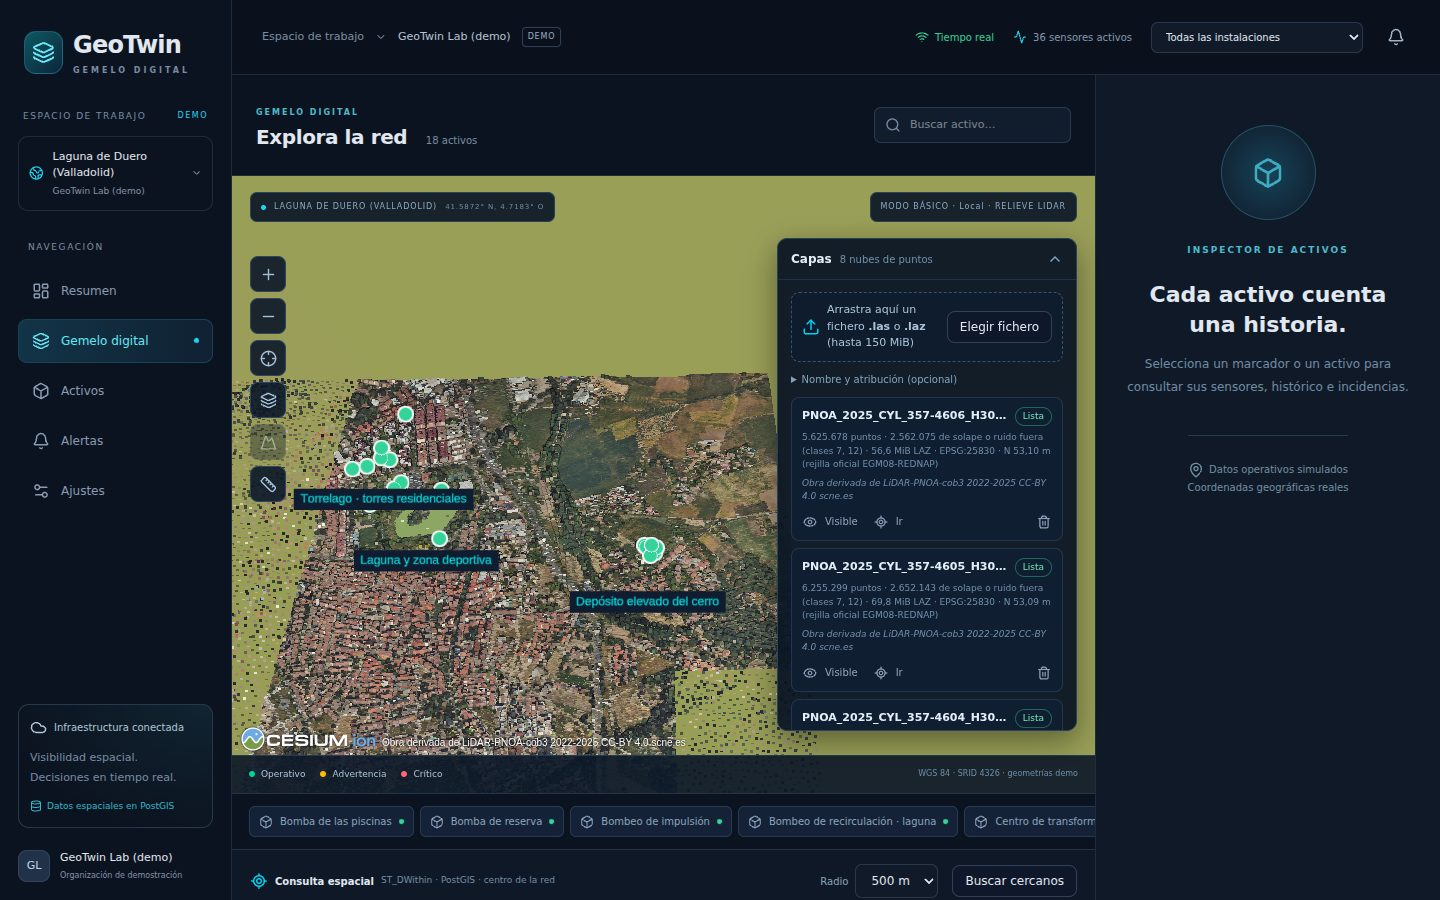
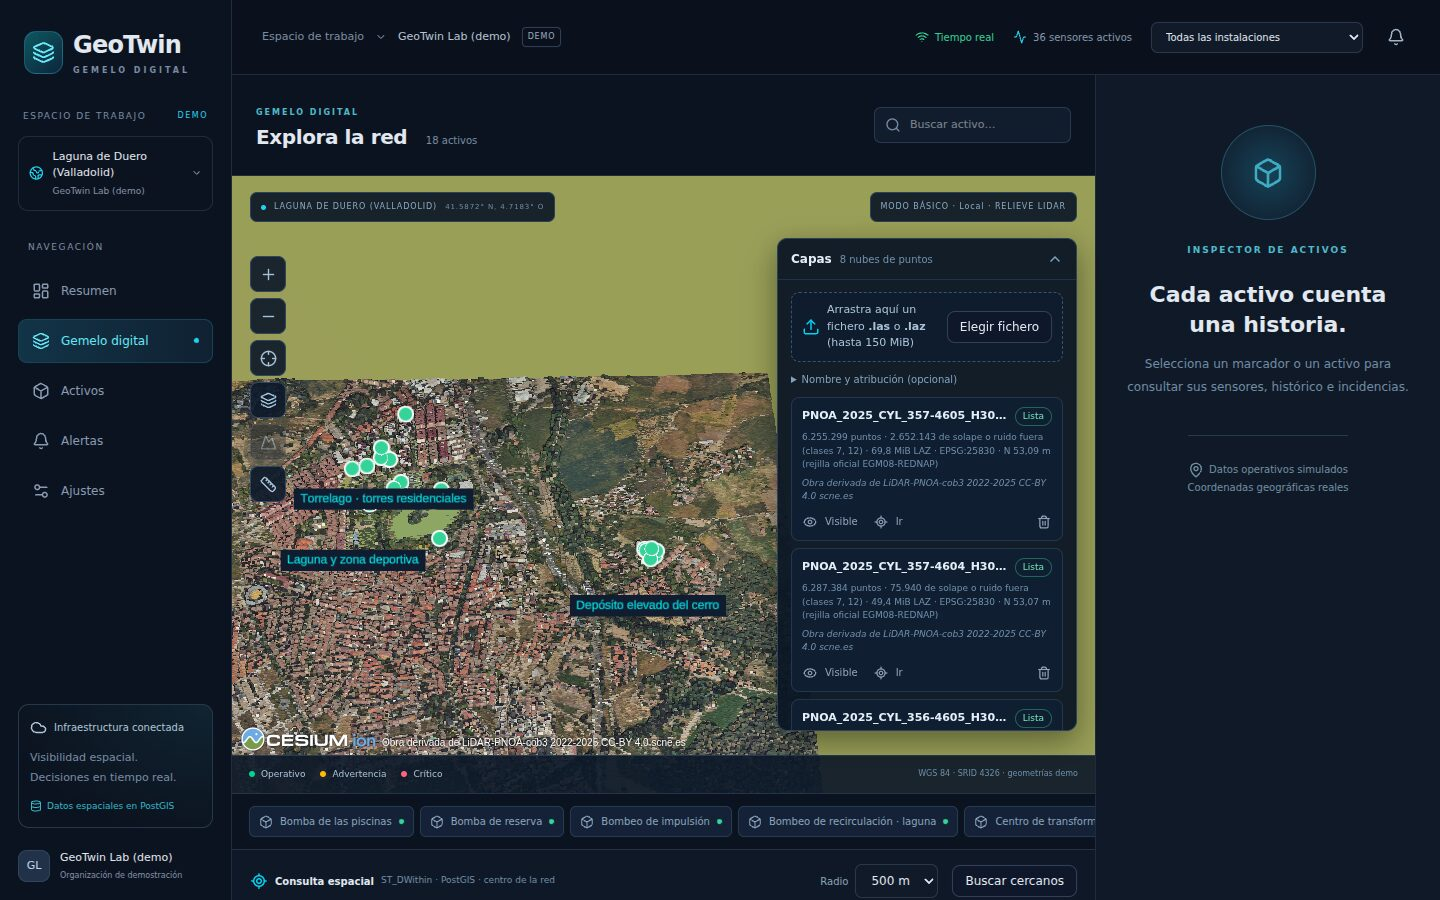
docs: final check findings, the fixes and their before/after numbers
Claude-Session: https://claude.ai/code/session_01BEvotRhPSGFhtZzXa95Uqt

Changed region(s): [[0.375, 0.4044, 0.5938, 0.84], [0.1562, 0.4044, 0.3438, 0.84]]

diff --git a/README.md b/README.md
@@ -74,8 +74,8 @@ npm run format:check
 
 - Dashboard calculado mediante SQL, filtros por instalación y tendencia de sensores.
 - Visor Cesium real: la cámara encuadra los activos (toda la red o la instalación elegida) en escritorio y en móvil, selección mediante clic, fly-to, marcadores y volúmenes de activos con color operativo, búsqueda y controles de navegación. Cambiar de instalación no reconstruye el visor.
-- Inspector de activos con sensores, última lectura, histórico y umbrales. Edición persistente del nombre, que llega a los demás clientes por WebSocket.
-- Enlaces compartibles: la vista, la instalación y el activo seleccionados viven en la URL (por ejemplo `/gemelo?instalacion=…&activo=…`). Abrir el enlace muestra lo mismo y el botón Atrás del navegador vuelve a la vista anterior.
+- Inspector de activos con sensores, última lectura (con coma decimal y la marca «simulado» junto a cada valor), histórico y umbrales. Edición persistente del nombre, que llega a los demás clientes por WebSocket.
+- Enlaces compartibles: la vista, la instalación y el activo seleccionados viven en la URL (por ejemplo `/gemelo?instalacion=…&activo=…`). Abrir el enlace muestra lo mismo y el botón Atrás del navegador vuelve a la vista anterior. Si el relieve del LiDAR llega después del primer vuelo, la cámara vuelve a apuntar al suelo real, salvo que ya la hayas movido.
 - Telemetría cada 5 segundos, persistida antes de publicar eventos; secuencia reproducible y anomalías periódicas. Cada tick usa un número fijo de sentencias SQL, sea cual sea el número de sensores.
 - Fallos controlados desde la UI: una lectura crítica crea una incidencia, actualiza el activo y se propaga a clientes conectados.
 - Registro manual de incidencias y resolución idempotente con histórico de resolución.
@@ -164,6 +164,7 @@ El botón con la regla del mapa abre **Medir** (se descarga aparte, solo al usar
 - **Distancia** (2 o más puntos, polilínea): **3D** (suma de cuerdas entre los puntos), **Horizontal** (geodésicas sobre el elipsoide WGS84 con `EllipsoidGeodesic`, sin contar el desnivel) y **Desnivel** (altura del último menos la del primero; en una hoja de 1 km el geoide varía menos de 2 cm, así que equivale al desnivel ortométrico).
 - **Área** (3 o más puntos): **área horizontal** del polígono (vértices llevados a h = 0, proyectados al plano tangente en su centroide y fórmula del área de Gauss) y **perímetro** geodésico.
 - Precisión mostrada acorde con lo que permite un clic: centímetros por debajo de 10 m, decímetros hasta 1 km y metros por encima; áreas en m² y, desde 1 ha, también en hectáreas.
+- **Al suelo (MDT)**: con el relieve del LiDAR activo, una casilla lleva cada punto a la altura del modelo del terreno en ese sitio. Sirve cuando el clic cae sobre un árbol, un coche o una valla; sin ella, pica en pavimento despejado para medir el suelo.
 - **Teclado**: con el mapa enfocado, las flechas lo desplazan y `+`/`-` acercan; **Centro** añade el punto bajo la cruz central; Retroceso, Supr o Ctrl+Z deshacen el último punto y Esc cierra la herramienta. Los resultados se anuncian a lectores de pantalla.
 - Las fórmulas tienen pruebas unitarias contra valores calculados aparte con GeographicLib (pyproj): distancias geodésicas al milímetro, una hoja UTM de 1 × 1 km de Laguna de Duero (1.000.293 m²) y un polígono de 18.246 m².
 - Las medidas no se guardan: desaparecen al cerrar la herramienta.
@@ -191,7 +192,7 @@ npm run test:e2e               # arranca API, worker LiDAR y Vite: 7 pruebas rea
 
 Las pruebas de integración requieren PostgreSQL activo en 55432. Las del pipeline LiDAR convierten de verdad con py3dtiles: usan el Python de `LIDAR_PYTHON` y se saltan (con aviso) si no tiene las dependencias, salvo con `REQUIRE_LIDAR_TESTS=true`, como en la CI. Con `GEOID_GRID_DIR` apuntando a la rejilla oficial se prueba además la corrección punto a punto, y con `S3_TEST_ENDPOINT` el driver S3 contra un MinIO real (la CI hace ambas cosas). Utilizan **únicamente** la base `geotwin_test` y rechazan otro nombre antes de limpiar fixtures. `TEST_DATABASE_URL` permite ajustar host y credenciales. El usuario local de PostgreSQL debe poder crear esa base; si no existe, se crea desde la base de mantenimiento `postgres` del mismo servidor. No uses una base de negocio para los tests.
 
-El E2E también usa `geotwin_test`, desactiva el simulador periódico y mantiene disponible la inyección controlada; no usa mocks de REST. Arranca además el worker LiDAR (necesita un `LIDAR_PYTHON` con py3dtiles, como las pruebas de integración) con almacenamiento local en `data/e2e-storage`: el segundo flujo sube la nube sintética desde el panel Capas, espera a que esté lista por WebSocket, comprueba que su suelo pasa a ser el relieve del visor y que se puede apagar, la oculta y la muestra, cambia el modo de color, mide una distancia y la borra. Otras pruebas comprueban que el encuadre deja todas las instalaciones fuera del panel Capas a 1280 y 1440 px, que en el móvil la herramienta Medir no tapa los créditos, y pasan axe (WCAG 2.1 AA) por las cinco páginas en escritorio y móvil. Selecciona la capa local real para que el test no dependa del servicio de ortofotos. Necesita los puertos 3001 y 5173 libres y un navegador con WebGL (se configura SwiftShader en CI). Los informes de fallo se guardan en `test-results/`. La CI ejecuta checks, integración, build, E2E y un arranque de Compose; los resultados y la fecha de cada ejecución están en [docs/verification.md](docs/verification.md).
+El E2E también usa `geotwin_test`, desactiva el simulador periódico y mantiene disponible la inyección controlada; no usa mocks de REST. Arranca además el worker LiDAR (necesita un `LIDAR_PYTHON` con py3dtiles, como las pruebas de integración) con almacenamiento local en `data/e2e-storage`: el segundo flujo sube la nube sintética desde el panel Capas, espera a que esté lista por WebSocket, comprueba que su suelo pasa a ser el relieve del visor y que se puede apagar, la oculta y la muestra, cambia el modo de color, mide una distancia y la borra. Otras pruebas comprueban que el encuadre deja todas las instalaciones fuera del panel Capas a 1280 y 1440 px, que un enlace compartido a un activo, abierto en una página nueva, deja la cámara sobre el relieve del LiDAR, que en el móvil la herramienta Medir no tapa los créditos y las etiquetas de las instalaciones no se solapan ni quedan bajo los controles, y pasan axe (WCAG 2.1 AA) por las cinco páginas en escritorio y móvil. Selecciona la capa local real para que el test no dependa del servicio de ortofotos. Necesita los puertos 3001 y 5173 libres y un navegador con WebGL (se configura SwiftShader en CI). Los informes de fallo se guardan en `test-results/`. La CI ejecuta checks, integración, build, E2E y un arranque de Compose; los resultados y la fecha de cada ejecución están en [docs/verification.md](docs/verification.md).
 
 Si los puertos 3001 o 5173 están ocupados, `API_PORT` y `WEB_PORT` cambian los de Vite, su proxy y los servidores del E2E. `PLAYWRIGHT_CHROMIUM_PATH` usa un Chromium ya instalado cuando no coincide con la versión fijada de Playwright.
 

diff --git a/docs/verification.md b/docs/verification.md
@@ -134,6 +134,33 @@ Fallos que han aparecido con los datos reales y se han corregido, cada uno con s
 - **Encuadre de una red pequeña.** La red de Laguna mide 1,4 km y la etiqueta de la instalación del extremo quedaba bajo el panel Capas a 1280 px: el margen pasa al 30 % con un mínimo de 200 m.
 - **E2E de encuadre inestable.** Con teselas reales en SwiftShader el primer fotograma de un vuelo tarda segundos y la prueba daba la cámara por quieta antes de empezar a moverse; ahora espera a que el vuelo empiece y termine.
 
+### Comprobación independiente final y correcciones
+
+Una última comprobación independiente de `8d0c008` encontró un fallo importante y varios menores. Todos se han corregido, cada uno con su prueba:
+
+- **Enlace a un activo con la cámara bajo el suelo.** Un enlace `/gemelo?instalacion=…&activo=…` abierto en una página nueva volaba antes de que llegara el MDT: apuntaba al elipsoide y la cámara quedaba a 459,6 m de altura elipsoidal, unos 300 m por debajo del suelo (755 m). El visor recuerda ahora su último vuelo automático y lo repite cuando cambia el suelo, salvo que el usuario haya movido la cámara; también espera a la lista de activos. Con las ocho hojas, el mismo tipo de enlace deja la cámara a 1.233,7 m (pasarela de la torre sur) y 1.210,1 m (sonda de la laguna) a los 2 s, unos 460 m sobre el suelo. Un E2E sube la nube sintética, abre el enlace en una página nueva y exige más de 300 m sobre el máximo del MDT; antes del arreglo la cámara se quedaba en 754 m, a ras del terreno.
+- **Escalones en los bordes del MDT.** La huella de cada hoja es un cuadrado UTM, girado algo más de 1° en la malla de longitud y latitud. Fuera de ella, los huecos se rellenaban a lo largo de la fila y, junto a los bordes norte y sur, la altura salía de muy lejos en esa fila. Ahora se rellenan con la celda con datos más cercana en 2-D, y un punto fuera de toda huella toma la altura del punto más cercano de su contorno. Medido cada 5 m a lo largo de los bordes exteriores, con los MDT reales:
+
+  | Hojas cargadas      | 1 m dentro frente a 1 m fuera (mediana · p95 · máximo) | 1 m dentro frente a 30 m fuera (máximo) |
+  | ------------------- | ------------------------------------------------------ | --------------------------------------- |
+  | 2 (antes / después) | 0,15 · 3,86 · 10,43 m / 0,00 · 0,03 · 0,25 m           | 26,79 m / 0,48 m                        |
+  | 8 (antes / después) | 0,01 · 2,20 · 4,03 m / 0,00 · 0,02 · 0,25 m            | 15,84 m / 0,48 m                        |
+
+  A 30 m ya empieza la transición hacia el plano orientativo, por eso no es cero. Una prueba unitaria con una huella girada 4° lo cubre (con el relleno anterior daba 1,0 m y 8,9 m).
+
+- **Clics sobre árboles, coches o vallas.** La guía de Laguna lo explica y la herramienta Medir tiene, con el relieve del LiDAR, la casilla «Al suelo (MDT)», que lleva cada punto a la altura del modelo del terreno.
+- **Activos de cubierta flotando sin relieve.** Con el escenario de Laguna y sin hojas cargadas, las pasarelas de las cubiertas quedaban a 32-42 m sobre el elipsoide. La altura de montaje se aplica ahora solo con relieve (LiDAR o Cesium ion) y una nota en el visor dice cómo verlas a su altura.
+- **Etiquetas de instalación** debajo de la columna de controles en el móvil y solapadas entre sí: se colocan en cada fotograma por debajo o por encima de su zona, se apartan de los controles, del panel Capas y, si pueden, de los marcadores, y se ocultan si no caben.
+- **Coma decimal** en las lecturas, el gráfico, los umbrales y los mensajes de alerta («Nivel: 2,35 m (umbral crítico 2,1 m)»), como en la herramienta Medir. Cada lectura del inspector lleva la marca «simulado».
+- **La sonda de la laguna** tiene su propio tipo, «Sonda de nivel», en lugar de pasar por un depósito; la migración 008 cambia el tipo de la sonda ya sembrada.
+- **Capturas sin enlazar**: se han quitado tres del escenario anterior de Valladolid y la del panel Capas se ha repetido con las ocho hojas y se enlaza desde la guía.
+
+| Fecha      | Revisión | Entorno                                                 | Comprobación                                                                                                                                                                                                        | Resultado |
+| ---------- | -------- | ------------------------------------------------------- | ------------------------------------------------------------------------------------------------------------------------------------------------------------------------------------------------------------------- | --------- |
+| 13/10/2026 | rama     | Local, el mismo entorno                                 | Lint, formato, tipos; `npm test` 117/117 (21 ficheros); `npm run test:integration` 41/41 (+1 de S3 sin servidor); `pytest` 20/20; `npm run build`                                                                   | Correcto  |
+| 13/10/2026 | rama     | Igual, `npm run test:e2e` con API, worker y Vite reales | 9/9: los anteriores más el enlace compartido sobre el relieve y las etiquetas en el móvil                                                                                                                           | Correcto  |
+| 13/10/2026 | rama     | Navegador con las ocho hojas reales, 1440×900 y 390×844 | Enlaces a la pasarela y a la sonda en página nueva: cámara unos 460 m sobre el suelo desde los 2 s; etiquetas sin solaparse ni tapar controles; sin errores en la consola; migración 008 sobre una base ya sembrada | Correcto  |
+
 ## Límites del entorno
 
 - No hay despliegue público ni recursos en AWS; [aws.md](aws.md) es un plan.

diff --git a/docs/laguna-de-duero.md b/docs/laguna-de-duero.md
@@ -32,6 +32,8 @@ scripts/upload-layers.sh data/laguna/*.LAZ                          # Compose: h
 scripts/upload-layers.sh -u http://localhost:3001 data/laguna/*.LAZ # npm run dev
 ```
 
+![Las ocho hojas cargadas en el panel Capas, con el relieve del LiDAR](screenshots/laguna-capas.jpg)
+
 Como los nombres empiezan por `PNOA_`, la API guarda en cada capa la atribución de PNOA-LiDAR y el visor la añade a sus créditos mientras alguna de esas capas esté visible (una sola vez, aunque haya ocho). Para que la corrección de alturas use la rejilla oficial del geoide, instálala antes (ver el README); sin ella se aplica EGM96, unos 0,5 m más alto aquí.
 
 ## Qué hace el pipeline con estas hojas
@@ -85,7 +87,7 @@ El **MDT** se ha comparado con los mismos 200.000 puntos de suelo por hoja: dife
 | Laguna y zona deportiva          | Laguna sin retornos láser (el agua absorbe el láser) de 3,4 ha, piscinas al aire libre, pabellón de 12,3 m, campos | Sonda de nivel en la orilla norte (con métrica de nivel en m), bombeo de recirculación, pasarela en la cubierta del pabellón       |
 | Depósito elevado del cerro       | Estructura cilíndrica de unos 22 m de diámetro y 33 m de altura en el cerro del noreste (suelo a 732 m)            | Depósito (nivel en m) y pasarela a 33 m, bombeo de impulsión, válvula y transformador en la base                                   |
 
-La estructura del cerro tiene la forma de un depósito elevado, pero la demo no afirma qué es: el activo es ficticio y la descripción lo dice. Cada activo guarda su **altura de montaje** sobre el suelo (`mount_height_m`), medida con la nube (clase 6 en la cubierta frente a clase 2 alrededor), y el visor lo dibuja a esa altura sobre el relieve del LiDAR. Las lecturas son simuladas; el nivel de agua avisa si sube por encima del umbral.
+La estructura del cerro tiene la forma de un depósito elevado, pero la demo no afirma qué es: el activo es ficticio y la descripción lo dice. Cada activo guarda su **altura de montaje** sobre el suelo (`mount_height_m`), medida con la nube (clase 6 en la cubierta frente a clase 2 alrededor), y el visor lo dibuja a esa altura sobre el relieve del LiDAR. Sin relieve (sin hojas cargadas, o con «Relieve del LiDAR» apagado) no hay cubierta sobre la que apoyarlo: todos los activos se dibujan a ras del mapa y una nota en el visor dice cómo verlos a su altura. La sonda de la laguna es del tipo **sonda de nivel**. Las lecturas son simuladas; el nivel de agua avisa si sube por encima del umbral.
 
 ## Mediciones sobre la nube real
 
